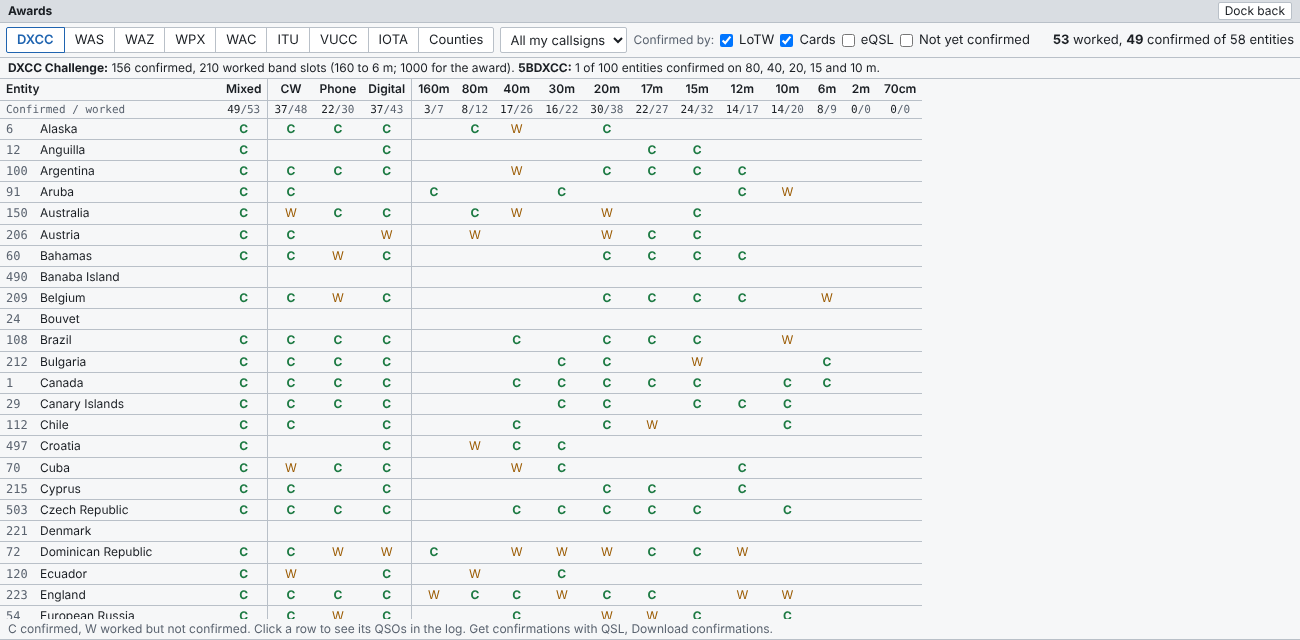
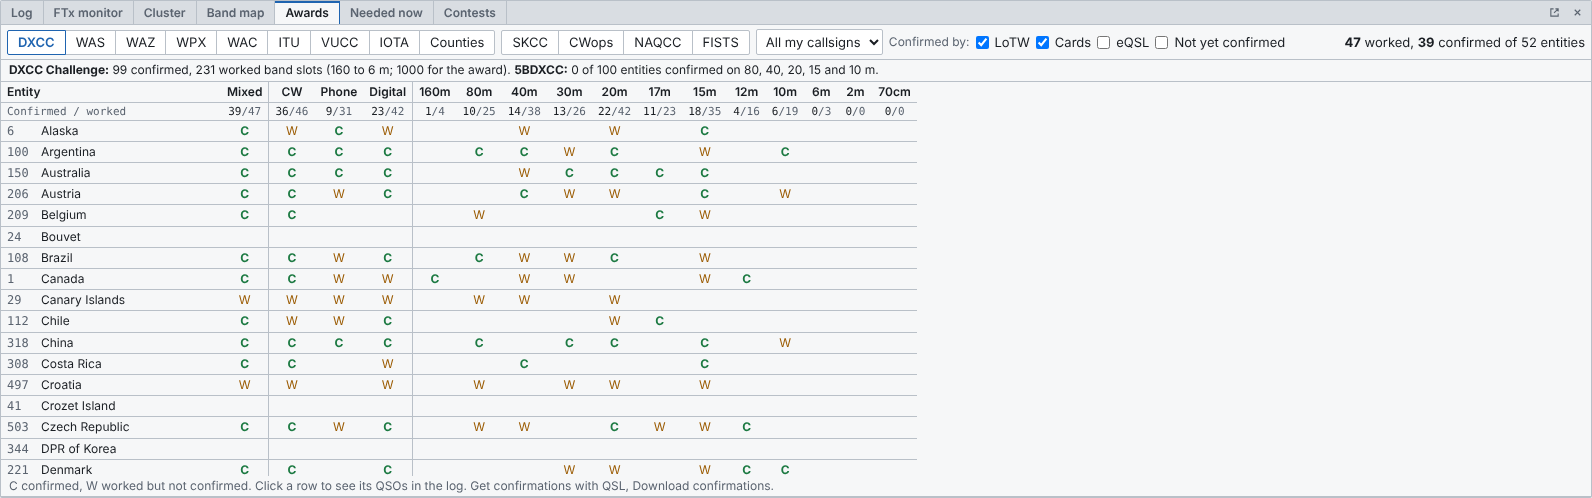
README: cover everything added since the first version, with new screenshots
Adds the QSL window (look up, cards to send with QL-700 labels and group by,
to reply to, online services with per-service timers, LoTW auto download and
new confirmations), CW club fields and the SKCC, CWops (with CWT medals),
NAQCC and FISTS awards, the awards hide list, Needed now with alerts, spot to
cluster, contests, band forecast, keyboard shortcuts, settings and help
search, the Getting started guide and the update notice. Screenshots are
retaken from the running app with a made-up demo log.

Claude-Session: https://claude.ai/code/session_019pQBjEi2U2T82ZWpQ5NnoH

Changed region(s): [[0.0, 0.0, 1.0, 1.0]]

diff --git a/README.md b/README.md
@@ -2,19 +2,20 @@
 
 A fast, reliable amateur radio logger for Windows, macOS (Apple Silicon) and Linux.
 
-QRZero keeps your log in one SQLite file, stays quick with hundreds of thousands of QSOs, and talks to the programs and radios in a ham shack: WSJT-X, JTDX, N1MM Logger+, Hamlib, TCI, serial CAT, rotators, the DX cluster, QRZ.com, LoTW, Club Log and eQSL.
+QRZero keeps your log in one SQLite file, stays quick with hundreds of thousands of QSOs, and talks to the programs and radios in a ham shack: WSJT-X, JTDX, N1MM Logger+, Hamlib, TCI, serial CAT, rotators, the DX cluster, QRZ.com, LoTW, Club Log and eQSL. It is built with DX chasing and CW in mind: spots that would be new for you raise an alert, awards from DXCC to the CW club awards are tracked as you log, and QSL cards, labels and online uploads are handled in one window.
 
 ![QRZero main window](docs/screenshots/main-window.png)
 
-*Every screenshot in this file uses a made-up demo log for the placeholder call N0CALL. The country list, spots and decodes are sample data.*
+*Every screenshot in this file uses a made-up demo log for the placeholder call N0CALL. The country list, spots, contest calendar, decodes and confirmations are sample data.*
 
-**Contents:** [Install](#install) · [First run](#first-run) · [Logging](#logging-qsos) · [Radios and rotator](#radios-and-rotator) · [WSJT-X, JTDX and N1MM](#wsjt-x-jtdx-and-n1mm) · [DX cluster and band map](#dx-cluster-band-map-and-watch-list) · [Awards](#awards) · [QSL and online services](#qsl-and-online-services) · [ADIF](#adif-import-and-export) · [UDP connections](#udp-connections-and-startup-programs) · [Layout](#arranging-the-window) · [Settings and backups](#settings-and-backups) · [Browser mode](#using-a-browser) · [Build from source](#building-from-source) · [Status](#status)
+**Contents:** [Install](#install) · [First run](#first-run) · [Logging](#logging-qsos) · [Radios and rotator](#radios-and-rotator) · [WSJT-X, JTDX and N1MM](#wsjt-x-jtdx-and-n1mm) · [DX cluster and band map](#dx-cluster-band-map-and-watch-list) · [Awards](#awards) · [QSL and online services](#qsl-and-online-services) · [ADIF](#adif-import-and-export) · [UDP connections](#udp-connections-and-startup-programs) · [Layout](#arranging-the-window) · [Settings, shortcuts and backups](#settings-keyboard-shortcuts-and-backups) · [Browser mode](#using-a-browser) · [Build from source](#building-from-source) · [Status](#status)
 
 ## Why QRZero
 
 - **Speed.** The log grid only loads the rows on screen, searches are indexed, and the interactive queries are checked against a 200,000-QSO log in the test suite. The design goal was a logger that never makes you wait mid-QSO.
 - **Every mode is equal.** CW, phone and digital get the same treatment everywhere: entry defaults, awards, band map, spot colours.
 - **Nothing is lost.** Every ADIF field of every QSO is stored, including fields other programs add for themselves, and comes back out on a full export. The log is one file with daily automatic backups.
+- **Made for DX chasers and CW operators.** A **Needed now** list with sound and popup alerts, split-aware spots, club numbers on CW QSOs, SKCC, CWops, NAQCC and FISTS awards with CWT medals, and bulk paper-QSL mailings with label printing. Every mode is still treated equally.
 - **Plain and classic.** A dense desktop-logger layout with panes you can move, tab, resize and pop out to a second screen. No wizard to fight, no cloud account.
 - **Local first.** Your log lives on your computer. QRZero only talks to the internet for the services you switch on. Passwords go in Windows Credential Manager (the macOS Keychain, or the Linux desktop keyring), never in the log file.
 
@@ -31,7 +32,11 @@ Download the files for the newest version from the [Releases page](https://githu
 | Linux | `.deb`, `.rpm` or `.AppImage` | Debian/Ubuntu, Fedora/openSUSE, or any distribution. Make the AppImage executable and run it. |
 | Linux, headless | `QRZero-server_<version>_linux-x86_64.tar.gz` | The server without a window, for a shack PC or Raspberry Pi-class machine you reach from a browser. See [Using a browser](#using-a-browser). |
 
-Windows is the main platform and gets the most testing. Your log is stored in `%APPDATA%\QRZero\qrzero.db` on Windows `~/Library/Application Support/QRZero/qrzero.db` on a Mac and `~/.local/share/QRZero/qrzero.db` on Linux.
+Windows is the main platform and gets the most testing. Your log is stored in `%APPDATA%\QRZero\qrzero.db` on Windows, `~/Library/Application Support/QRZero/qrzero.db` on a Mac and `~/.local/share/QRZero/qrzero.db` on Linux.
+
+QRZero checks GitHub once a day for a newer release and shows a link in the top bar when there is one. Nothing is downloaded or installed for you, and the check can be switched off in **Settings → General**.
+
+![Update notice in the top bar](docs/screenshots/update-notice.png)
 
 ## First run
 
@@ -42,7 +47,7 @@ The first time QRZero starts, a setup wizard walks you through the basics. Every
 | ![Callsign step](docs/screenshots/wizard-1-callsign.png) | ![Home location step](docs/screenshots/wizard-3-location.png) |
 | 1. Your callsign, plus any calls you held before, so old QSOs are labelled correctly. 2. Your QRZ.com login if you have an XML subscription. | 3. Your home location: name, grid, city, state, zones. |
 | ![Equipment step](docs/screenshots/wizard-4-equipment.png) | ![Entry fields step](docs/screenshots/wizard-5-fields.png) |
-| 4. Your radios, antennas and amplifiers. | 5. A starting layout for the entry form: general/DX, CW, parks and summits, satellites or casual contesting. 6. Import an ADIF log. |
+| 4. Your radios, antennas and amplifiers. | 5. A starting layout for the entry form: general/DX, CW, CW clubs, parks and summits, satellites or casual contesting. 6. Import an ADIF log. |
 
 ### Coming from another logger
 
@@ -58,11 +63,17 @@ Type the call, press <kbd>Tab</kbd> or <kbd>Space</kbd>, and QRZero looks it up 
 
 - **Lookups** use QRZ.com XML when you have a login (results are cached for 30 days) or fall back to your own earlier QSOs and the country file. **Fill from QRZ** and **View on QRZ.com** buttons sit next to Clear.
 - **Frequency, band and mode** follow each other: type a frequency and the band is set; pick a mode and the usual report is filled in (all of those defaults are yours to change). FT4 is stored the way ADIF wants it, as `MFSK`/`FT4`, and shown as FT4.
-- **Entry fields** are yours: pick a starting layout and add, remove, rename, resize or give defaults to any ADIF field, or invent your own. Tick *keep* to hold a value from one QSO to the next.
+- **Entry fields** are yours: pick a starting layout and add, remove, rename, resize or give defaults to any ADIF field, or invent your own. Tick *keep* to hold a value from one QSO to the next. CW, Phone and Digital can each have a layout of their own, so CW can show club numbers while SSB shows something else.
 
   ![Entry fields settings](docs/screenshots/settings-entry-fields.png)
+- **CW club numbers.** The **CW clubs** layout adds **SKCC**, **NAQCC**, **FISTS** and **CWops** boxes to the entry panel. They fill in from your last QSO with the call (in the lookup colour, so you can type over a new suffix or number) and feed the club awards described under [Awards](#cw-club-awards).
+
+  ![CW clubs layout in the entry panel](docs/screenshots/entry-cw-clubs.png)
 - **Enter time** lets you log from a paper log after the fact.
 - **Rig, antenna and amplifier** are chosen per location. Give each antenna its bands and the **Ant** box can pick the right one for the band automatically. Each QSO records `MY_RIG`, `MY_ANTENNA` and power.
+- **Spot a station you worked.** The **Spot…** button in the entry panel, or **Spot … to the cluster…** in the log's right-click menu, shows the exact line that will go to the cluster, with the frequency and a comment you can edit, and sends nothing until you click **Send spot**. Only QSOs from the last 10 minutes can be spotted (changeable in **Settings → DX cluster**), so an old contact is never spotted by mistake. A QSO logged in split is spotted on the frequency you listened on.
+
+  ![Spot dialog](docs/screenshots/spot-dialog.png)
 - **Locations, callsigns and logs.** Several logs, several station callsigns per log, and any number of operating locations (home, a holiday QTH, a park) whose details go into each QSO as the ADIF `MY_…` fields.
 
 ### Worked before, the Station pane and notes
@@ -94,7 +105,7 @@ The log grid stays fast at any size. Search by call (with `*` wildcards), narrow
 
 ![Log grid right-click menu](docs/screenshots/log-menu.png)
 
-The right-click menu acts on the selected rows: edit, fill from QRZ, view on QRZ.com, send through your UDP connections, mark OQRS and card status, export and delete. Double-click a QSO to edit it in its own window, grouped as Contact, Their location, My station, QSL (a table for LoTW, card, eQSL, QRZ and Club Log) and Other fields. **All ADIF fields** at the bottom edits everything stored with the QSO.
+The right-click menu acts on the selected rows: edit, fill from QRZ, view on QRZ.com, spot to the cluster, send through your UDP connections, mark OQRS and card status, add to the reply list, export and delete. Double-click a QSO to edit it in its own window, grouped as Contact, Their location, My station, QSL (a table for LoTW, card, eQSL, QRZ and Club Log) and Other fields. **All ADIF fields** at the bottom edits everything stored with the QSO.
 
 ![QSO editor](docs/screenshots/qso-editor.png)
 
@@ -151,17 +162,25 @@ The **FTx monitor** collects the decodes from every running WSJT-X and JTDX in o
 
 ### Cluster
 
-Add nodes under **Settings → DX cluster**; QRZero connects to the first and moves down the list if a node drops. Spots are flagged against your log the same way as FTx decodes, coloured by mode (blue CW, green digital, orange phone), and a new spot of the same station replaces the old one. Filter by band, mode group, age, **Needed only** and **Hide worked**, and use **Origin and country…** to hide spots you could never work (spotter on another continent, same-country spots, your own country). Click a spot to fill in the entry form and tune the radio. A **Console** lets you type commands to the node.
+Add nodes under **Settings → DX cluster**; QRZero connects to the first and moves down the list if a node drops. Spots are flagged against your log the same way as FTx decodes, coloured by mode (blue CW, green digital, orange phone), and a new spot of the same station replaces the old one. Filter by band, mode group, age, **Needed only** and **Hide worked**, and use **Origin and country…** to hide spots you could never work (spotter on another continent, same-country spots, your own country). Click a spot to fill in the entry form and tune the radio. A **Console** lets you type commands to the node. To tell the cluster you worked someone, see [Spot a station you worked](#logging-qsos).
 
 ![Cluster](docs/screenshots/cluster.png)
+
+### Needed now
+
+The **Needed now** pane lists only the spots on the air that would be new for your log, best first: a **new entity**, then a **new band** for an entity you have worked, then a **new mode**. It uses the same flags as the Cluster pane, lists each call, band and mode once however many people spot it, ranks CW, phone and digital together and drops spots after the time you choose (30 minutes to start with). Click a spot to fill in the QSO panel and tune the radio.
+
+![Needed now](docs/screenshots/needed-now.png)
+
+**Alerts.** When a needed station is spotted QRZero can play a sound (a double beep for a new entity, a single one for a new band or mode) and show a popup in the corner of the window; click the popup to tune to the station. Sound and popup are switched on separately, you choose how much alerts (new entities only, entities and bands, or modes too), and a call is not alerted again on the same band and mode for a while. Spots the cluster sends when you first connect are not alerted. The settings are under **Settings → DX cluster**, or press **Alerts…** in the pane.
+
+![Cluster settings with alerts for needed spots](docs/screenshots/settings-cluster.png)
 
 ### Band map
 
 The **Band map** shows one band as a frequency scale with cluster spots and your FT8/FT4 decodes beside it, follows the radio, zooms, and shows a US or IARU Region 1 band plan strip. Spots never overlap; click one to fill in the form and tune.
 
-| | |
-| --- | --- |
-| ![Band map](docs/screenshots/band-map.png) | ![Cluster settings](docs/screenshots/settings-cluster.png) |
+![Band map](docs/screenshots/band-map.png)
 
 ### Watch list
 
@@ -177,35 +196,75 @@ The **DXpeditions** pane reads NG3K's calendar and lists what is on the air now 
 
 ### Contests
 
-The **Contests** pane reads the WA7BNM Contest Calendar and lists the contests on the air now and those coming up, with a CW / Phone / Digital filter and a link to each one's rules. It is a calendar only; contest logging stays in your contest logger.
+The **Contests** pane reads the WA7BNM Contest Calendar and lists the contests on the air now and those coming up, with a CW / Phone / Digital filter and a link to each one's rules. It is a calendar only; contest logging stays in your contest logger (QSOs from N1MM Logger+ come into QRZero over UDP). The last list is kept in the log file, so it is still there offline.
+
+![Contests](docs/screenshots/contests.png)
 
 ### Propagation
 
 The **Propagation** pane shows solar flux, sunspots, A and K index, X-ray, solar wind, Bz, MUF and N0NBH's band-condition estimates for HF and VHF, with sunrise and sunset at your end and the other station's. It only fetches the feed while the pane is open.
 
+Once you type a call or pick an entity, the pane ends with a **Band forecast**: bands from 160 m to 10 m against the 24 hours of today in UTC, green where the band is likely open between you and the other station and amber where it is marginal, with the current hour outlined. It is a rough estimate worked out on your own computer from the solar flux, the K index, the sun's height along the path and the date, with nothing extra to download. It is a guide to when to look, not a replacement for a prediction program, and it does not know about sporadic E.
+
 ![Propagation](docs/screenshots/propagation.png)
 
 ## Awards
 
-The **Awards** pane tracks **DXCC**, **WAS**, **WAZ**, **WPX**, **WAC**, **ITU zones**, **VUCC** (grids on 6 m and up), **IOTA** and **US counties**, with the **DXCC Challenge** and **5BDXCC** totals. Each row shows Mixed, CW, Phone and Digital plus every band from 160 m to 70 cm, a green **C** for confirmed and an amber **W** for worked. You choose what counts as confirmed (LoTW, cards, eQSL), can limit it to one callsign, hide what is already confirmed, and click a row to see its QSOs in the log.
+The **Awards** pane tracks **DXCC**, **WAS**, **WAZ**, **WPX**, **WAC**, **ITU zones**, **VUCC** (grids on 6 m and up), **IOTA** and **US counties**, with the **DXCC Challenge** and **5BDXCC** totals, plus the CW club awards below. Each row shows Mixed, CW, Phone and Digital plus every band from 160 m to 70 cm, a green **C** for confirmed and an amber **W** for worked. You choose what counts as confirmed (LoTW, cards, eQSL), can limit it to one callsign, hide what is already confirmed, and click a row to see its QSOs in the log. The QSO panel shows what the call you are typing would be worth for each award, and a download of confirmations lists what it newly confirmed (see [QSL and online services](#qsl-and-online-services)).
 
 ![Awards](docs/screenshots/awards.png)
 
-## QSL and online services
+Awards you don't chase can be switched off in **Settings → Awards**. They disappear from the pane and from the award lines in the QSO panel, your log is untouched, and ticking one again brings it back as it was. Any award added in a later version starts switched on.
 
-Choose **QSL: LoTW, QRZ, Club Log…** from the ☰ menu. Each QSO keeps its status in the standard ADIF fields, so other loggers see what has been sent, and each service has a **QSOs from** date so an imported log is not uploaded twice.
+![Settings, Awards](docs/screenshots/settings-awards.png)
 
-![QSL services](docs/screenshots/qsl-online.png)
+### CW club awards
 
-- **LoTW.** Signs and uploads through your installed TQSL when you click the button, and downloads confirmations (filling in the other station's state, zones, grid and county where yours are blank).
-- **QRZ Logbook, Club Log and eQSL.** Upload new QSOs on a timer (15 minutes by default) or on demand, per callsign; edited QSOs are sent again. eQSL confirmations can be downloaded, and LoTW and eQSL downloads can run once a day.
-- **Confirmation status.** The QSO editor shows LoTW, card, eQSL, QRZ and Club Log together with a one-line summary, and the log has **LoTW R**, **QSL R**, **QRZ R**, **OQRS** and **Confirmed** columns. Your Club Log OQRS requests are tracked as a reminder.
-- **Paper cards.** Queue cards from the log, print Avery 5160/L7160 or 5163/L7163 address labels (several QSOs with one station share a label), then mark them sent via bureau or direct. Mark received cards the same way.
-- **QSL lookup** (☰ menu or <kbd>Alt</kbd>+<kbd>Q</kbd>) is for answering cards in bulk: type a call, press Enter, and see that station's QSOs newest first with the card status, QSL manager and address.
+The **SKCC**, **CWops**, **NAQCC** and **FISTS** buttons count from the club numbers logged on CW QSOs (see [CW club numbers](#logging-qsos)). Members are counted by number, not call, and confirmations don't apply: the clubs work from your log. QRZero has no member lists, so it cannot check that a number is real or that the member was active when you worked them; check the club's own rules before you apply.
+
+- **SKCC**: Centurion (100 members, with every further 100 a new level), Tribune (50 Centurions, Tribunes or Senators from the suffix you logged) and Senator (200 Tribunes or Senators), with the date each was first reached and the members per band for the single-band endorsements.
+- **CWops**: ACA and ACMA per year, CMA per band, DXCC and US states worked with members, and the **CWT medals**: one point per hourly CWops test in which you made 10 or more contacts (the same call counts again on another band), with bronze, silver and gold at 50, 80 and 120 points a year (lower thresholds if you operate outside North America and Europe). Every CWT hour of the year is listed with its QSOs and contacts, so near misses show, and points for tests worked outside this log can be added by hand per year.
+- **NAQCC**: the Friendship Club (200 different members, then every further 200).
+- **FISTS**: Century, Silver, Gold and Diamond Century (100, 250, 500 and 1000 points, one for a member in your own country and two for another DXCC entity) and WAS.
 
 | | |
 | --- | --- |
-| ![Paper cards](docs/screenshots/qsl-paper.png) | ![QSL lookup](docs/screenshots/qsl-lookup.png) |
+| ![SKCC](docs/screenshots/awards-skcc.png) | ![CWops](docs/screenshots/awards-cwops.png) |
+| ![NAQCC](docs/screenshots/awards-naqcc.png) | ![FISTS](docs/screenshots/awards-fists.png) |
+
+## QSL and online services
+
+Choose **QSL: LoTW, QRZ, Club Log…** or **QSL lookup…** (<kbd>Alt</kbd>+<kbd>Q</kbd>) from the ☰ menu. One QSL window has four tabs: **Look up**, **Cards to send**, **To reply to** and **Online services**. Each QSO keeps its status in the standard ADIF fields (sent, date, confirmed), so other loggers see what has been sent, and each service has a **QSOs from** date so an imported log is not uploaded twice.
+
+### Online services
+
+There is one page per service, with its own login or API key and its own upload settings. Passwords and keys go in Windows Credential Manager (the Keychain on a Mac, the desktop keyring on Linux), never in the log file.
+
+![QSL services](docs/screenshots/qsl-online.png)
+
+- **LoTW.** Signs and uploads through your installed TQSL when you click the button, either everything waiting or a date range (for example when moving from another logger), and downloads confirmations, filling in the other station's state, zones, grid and county where yours are blank. Tick **Download confirmations automatically** and set how often (once a day to start with) to have confirmations fetched in the background.
+- **QRZ Logbook, Club Log and eQSL.** Each has its own **Upload new QSOs automatically** tick and **Every (min)** interval (15 minutes to start with), so one service can upload every 5 minutes while another waits an hour or is off. Uploads are per callsign, and edited QSOs are sent again. eQSL confirmations can be downloaded on demand or once a day.
+- **New confirmations.** After a LoTW or eQSL download, a **New toward your awards** list shows what the confirmations counted for the first time: a new entity, state, zone or prefix, and the new bands and modes it filled. It follows your award settings and the confirmation sources you tick in the Awards pane.
+
+![New toward your awards after a LoTW download](docs/screenshots/qsl-lotw-new.png)
+
+Moving from another logger? Download confirmations first: everything the service already has is marked sent and confirmed, so the first upload does not send duplicates.
+
+### Confirmation status
+
+The QSO editor shows LoTW, card, eQSL, QRZ and Club Log together with a one-line summary, and the log has **LoTW R**, **QSL R**, **QRZ R**, **OQRS** and **Confirmed** columns (and sent-status columns for each service). Your Club Log OQRS requests are tracked as a reminder.
+
+### Look up, Cards to send and To reply to
+
+- **Look up** is for answering cards in bulk: type a call, press Enter, and see that station's QSOs newest first with the card status, plus a contact card (name, address, QSL manager, email, grid, zones and how many cards you have sent). Tick the QSOs for the card and mark them queued, sent or received, by bureau or direct. The call is matched whole, so DL1ABC finds DL1ABC/P but not DL1ABCD.
+- **Cards to send** lists everything queued. Print Avery 5160/L7160 or 5163/L7163 address labels (several QSOs with one station share a label) or Brother QL-700 labels for the confirmation block on the back of a card. The default is a 50 mm by 4 inch DK-22223 label that reads "CONFIRMING QSO WITH", the call in large type, then date, UTC, MHz, mode and RST for up to four QSOs, newest first, with an optional bottom line for your power or rig; DK-1201, DK-1209 and DK-1202 rolls are there too. **Group by** sorts the queue into piles for a bulk mailing, one per country for your outgoing bureau (cards for a QSL manager get a pile per manager) or one per manager, each with its card and station count. Labels print pile by pile.
+- **To reply to** is the list of cards that arrived and still need an answer. Add a call from the log's right-click menu or the Look up tab, keep a note (direct, via bureau, an address), and click **Replied**, which can also mark the QSOs as card sent by bureau or direct.
+
+| | |
+| --- | --- |
+| ![Look up](docs/screenshots/qsl-lookup.png) | ![To reply to](docs/screenshots/qsl-reply.png) |
+
+![Cards to send, grouped by bureau](docs/screenshots/qsl-paper.png)
 
 ## ADIF import and export
 
@@ -232,7 +291,7 @@ For everything QRZero does not know by name (an antenna switch, a band decoder, 
 
 ## Arranging the window
 
-Everything is a pane: New QSO, Station, Worked before, Map, Log, FTx monitor, Cluster, Awards, Band map, Watch list, DXpeditions, Contests, Propagation, Rotator and Notes. Drag a tab to dock a pane beside another or stack it as a tab, drag the bars to resize, hide panes you don't use, and pop any pane except New QSO and the Log out to its own window for a second screen. Save arrangements by name (a laptop layout, a two-screen shack layout, an FT8 evening) and switch between them; **Lock panes** stops accidents. Layouts live in the log database, so they survive restarts and come back with a restored backup.
+Everything is a pane: New QSO, Station, Worked before, Map, Log, FTx monitor, Cluster, Needed now, Awards, Band map, Watch list, DXpeditions, Contests, Propagation, Rotator and Notes. Some start as tabs behind others (Needed now beside Cluster, Contests beside DXpeditions); open or hide any of them from the **Layout** menu. Drag a tab to dock a pane beside another or stack it as a tab, drag the bars to resize, hide panes you don't use, and pop any pane except New QSO and the Log out to its own window for a second screen. Save arrangements by name (a laptop layout, a two-screen shack layout, an FT8 evening) and switch between them; **Lock panes** stops accidents. Layouts live in the log database, so they survive restarts and come back with a restored backup.
 
 | | |
 | --- | --- |
@@ -240,13 +299,19 @@ Everything is a pane: New QSO, Station, Worked before, Map, Log, FTx monitor, Cl
 
 Colours can follow Windows or be always light or dark, and text size runs from 11 to 18 px.
 
-## Settings and backups
+## Settings, keyboard shortcuts and backups
 
-**Settings** (☰ menu) groups its sections down the left: Callsigns, Locations, Equipment and Logs; Entry fields and Callsign lookup; Radios and programs, UDP connections, DX cluster and Startup programs; Backups and General.
+**Settings** (☰ menu) opens on **General** and groups its sections down the left: Program (General, Backups, Keyboard), Station (Callsigns, Locations, Equipment, Logs), Logging (Entry fields, Callsign lookup, Awards) and Connections (Radios and programs, UDP connections, DX cluster, Startup programs).
 
 ![Settings General](docs/screenshots/settings-general.png)
 
-- **General** has colours, text size, kilometres or miles, date and frequency formats, local time next to UTC, the report each mode starts with, whether deletes ask first, and a beep when a QSO is logged.
+- **Search settings.** Type in the box at the top left (*rotor*, *backup*, *colours*, *alert*, *QRZ*) and the list shows each matching setting with the section it lives in; click one and Settings jumps there and outlines it.
+
+  ![Searching the settings](docs/screenshots/settings-search.png)
+- **General** has colours, text size, kilometres or miles, date and frequency formats, local time next to UTC, the report each mode starts with, whether deletes ask first, a beep when a QSO is logged, and whether QRZero tells you when a newer release is out.
+- **Keyboard.** Every key QRZero responds to is listed and can be changed: click the key button and press the new combination. A key already used is refused (and the message says by what), a bare letter or digit is refused because it would fire while you type a callsign, and **Print the list…** makes a one-page sheet of every key to keep by the radio. Your choices are stored in the log database and come back with a restored backup.
+
+  ![Keyboard settings](docs/screenshots/settings-keyboard.png)
 - **Backups.** QRZero backs up the log file once a day when it starts, keeps the newest ten automatic copies, makes a manual one on demand, and restores from any listed backup or file after checking it first. A *before restore* copy is saved so a wrong restore can be undone. Copy the backups folder to another drive now and then.
 - **Country file.** DXCC entities come from AD1C's `cty.csv`, downloaded on first start and every two weeks; it can also be loaded from a file if your PC cannot reach the site.
 
@@ -264,7 +329,7 @@ It prints a link that includes a session token; open it. The token keeps other p
 
 ## Help
 
-The full user guide is in [docs/user](docs/user/01-getting-started.md) and is built into the app under ☰ → **Help** (<kbd>F1</kbd>). Its chapters:
+The full user guide is in [docs/user](docs/user/01-getting-started.md) and is built into the app under ☰ → **Help** (<kbd>F1</kbd>). It opens on a **Getting started** page that takes you from install to a first QSO, a connected radio, your logging programs and your QSLs, and a search box at the top finds any word on any page and jumps to it. Its chapters:
 
 1. [Getting started](docs/user/01-getting-started.md)
 2. [Logging QSOs](docs/user/02-logging.md)
@@ -285,7 +350,9 @@ The full user guide is in [docs/user](docs/user/01-getting-started.md) and is bu
 17. [DXpeditions](docs/user/17-dxpeditions.md)
 18. [Contests](docs/user/18-contests.md)
 
-![Help in the app](docs/screenshots/help.png)
+| | |
+| --- | --- |
+| ![Help in the app](docs/screenshots/help.png) | ![Searching the help](docs/screenshots/help-search.png) |
 
 ## Building from source
 
@@ -339,7 +406,7 @@ Pushing a tag builds the Windows, macOS and Linux packages and attaches them to 
 
 ## Status
 
-QRZero is in active development and its versions are alpha releases. Most integrations are built from the protocol documentation and checked against stand-ins in the test suite. The Mac build has only been built and tested in CI so far, not on a real Mac. Real-station testing so far covers WSJT-X, N1MM Logger+, AetherSDR over TCI and a WRC rotator controller over GS-232; the rest (Hamlib, serial CAT, CI-V, the other online services) is less proven, so reports and bug reports are welcome. Keep your own ADIF export and the automatic backups until you trust it.
+QRZero is in active development and its versions are alpha releases. Most integrations are built from the protocol documentation and checked against stand-ins in the test suite. The Mac build has only been built and tested in CI so far, not on a real Mac. Real-station testing so far covers WSJT-X, N1MM Logger+, AetherSDR over TCI and a WRC rotator controller over GS-232; the rest (Hamlib, serial CAT, CI-V, the other online services, QL-700 label printing, the contest calendar and the NAQCC and FISTS award rules) is less proven, so reports and bug reports are welcome. Keep your own ADIF export and the automatic backups until you trust it.
 
 ## License
 
